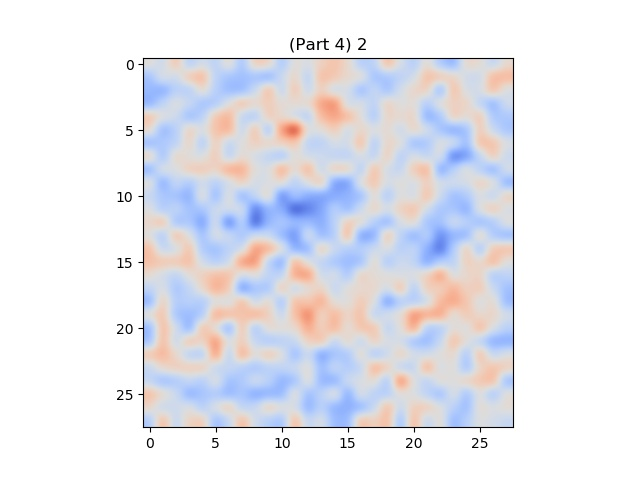
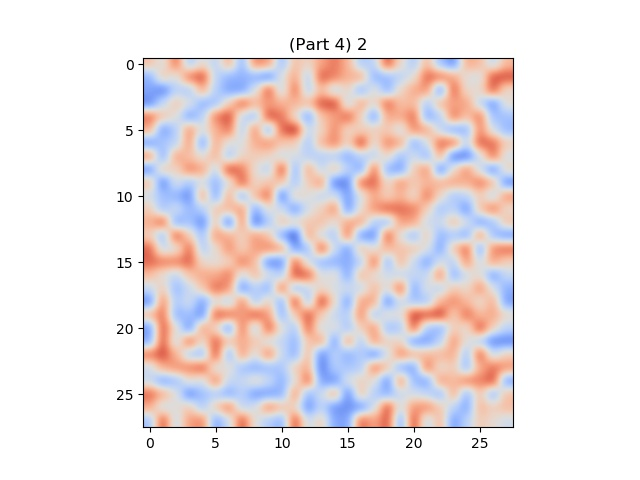
Removed plt.show() lines from weight viz

Changed region(s): [[0.2188, 0.125, 0.8125, 0.9062], [0.2188, 0.1875, 0.2812, 0.2812], [0.5938, 0.125, 0.625, 0.1562]]

diff --git a/Code/digits.py b/Code/digits.py
@@ -103,7 +103,7 @@ def part3():
     init_W = np.random.rand(28*28 + 1,10) # Randomly initialize weight matrix
     alpha = 1e-5
     eps = 1e-6
-    max_iter = 10000
+    max_iter = 1000
     num_images = 100 # Number of images per digit to use for training
     (W, history) = p4.part4_train(XTrain, YTrain, indicesTrain, num_images, alpha, 
                                   eps, max_iter, init_W)

diff --git a/Code/part4.py b/Code/part4.py
@@ -256,5 +256,4 @@ def part4_plotWeights(W, indices, imagePath):
         plt.title("(Part 4) " + str(n))
         plt.imshow(W[1:,n].reshape((28,28)), interpolation = 'gaussian', cmap = plt.cm.coolwarm)
         plt.savefig(imagePath + "p4_" + str(n) + ".jpg")
-        plt.show()
         plt.gcf().clear()
